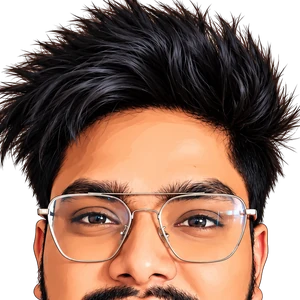
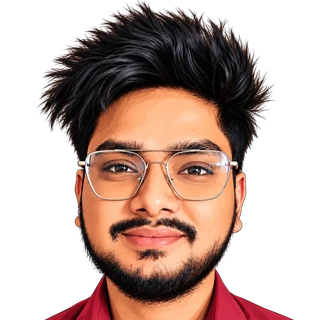
fix the my picture

diff --git a/src/Portfolio2026.jsx b/src/Portfolio2026.jsx
@@ -454,7 +454,7 @@ function Header({ active, dark, toggle }) {
         <div className="pf-wrap flex h-[74px] items-center justify-between gap-3">
           <a href="#home" className="group flex items-center gap-[11px] font-display text-[17px] font-bold tracking-[-0.01em]">
             <span className="relative h-10 w-10 overflow-hidden rounded-full bg-accent shadow-[0_0_0_2px_var(--surface),0_0_0_4px_var(--accent)]">
-              <img src={DATA.avatarFace} alt="" className="absolute inset-0 h-full w-full translate-y-[6%] scale-105 object-cover transition-transform duration-500 group-hover:translate-y-0 group-hover:scale-[1.15]" />
+              <img src={DATA.avatarFace} alt="" className="absolute inset-0 h-full w-full object-cover transition-transform duration-500 group-hover:scale-110" />
             </span>
             {DATA.name.join(" ")}
           </a>
